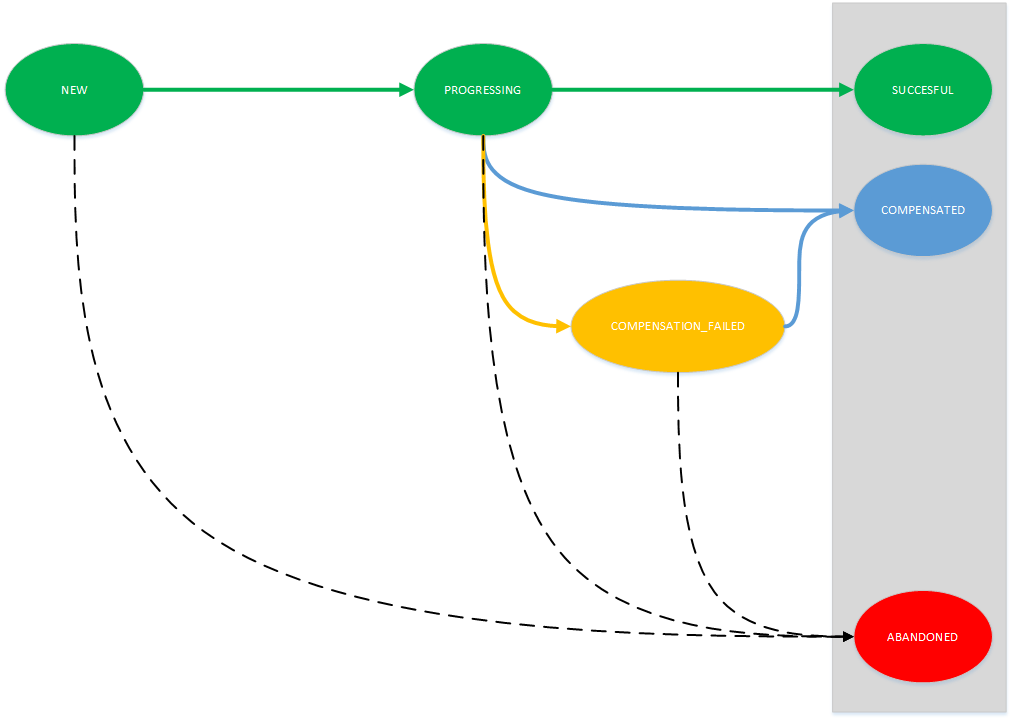
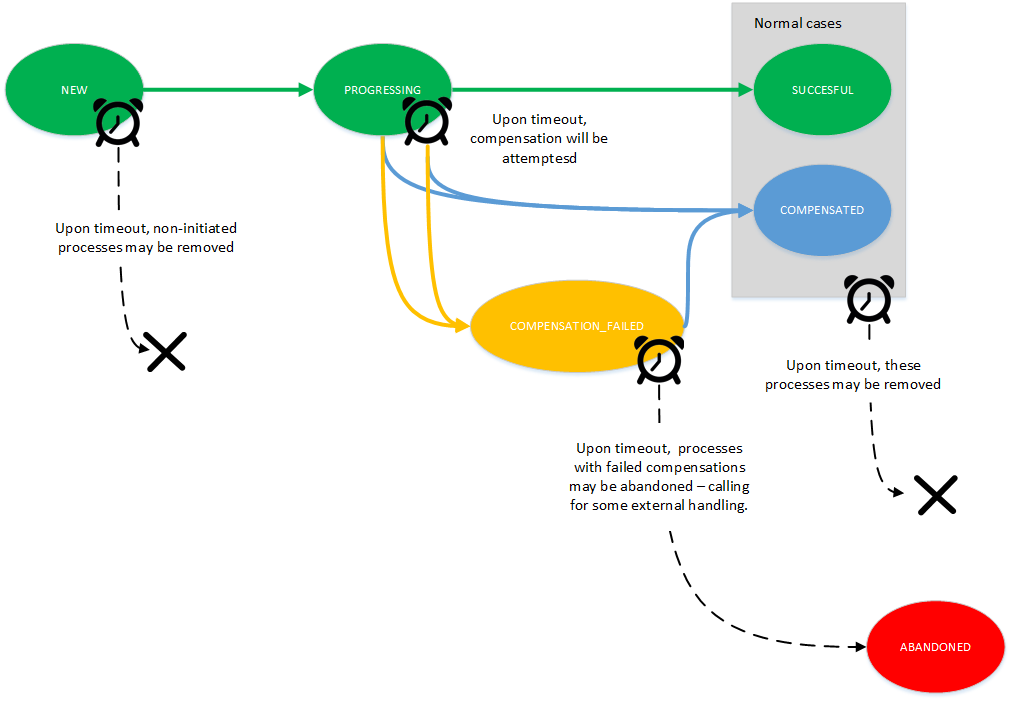
updated state handling (and doc)

diff --git a/src/main/java/eu/ensure/muprocessmanager/MuProcessManager.java b/src/main/java/eu/ensure/muprocessmanager/MuProcessManager.java
@@ -147,6 +147,17 @@ public class MuProcessManager {
                 //
                 switch (_status) {
                     case NEW:
+                        if (hasTimedout) {
+                            // Automatically remove after timeout
+                            if (log.isDebugEnabled()) {
+                                String info = "Removing stuck process: correlationId=\"" + correlationId + "\", processId=\"" + processId + "\"";
+                                log.debug(info);
+                            }
+                            compensationLog.remove(correlationId, processId);
+                            removeCount[status]++;
+                        }
+                        break;
+
                     case PROGRESSING:
                         if (hasTimedout) {
                             if (log.isDebugEnabled()) {
@@ -154,6 +165,7 @@ public class MuProcessManager {
                                 log.debug(info);
                             }
 
+                            // Attempt compensation
                             recoverWorkQueue.execute(() -> {
                                 // Since we don't have a micro process waiting, we will not propagate any
                                 // exceptions
@@ -188,6 +200,7 @@ public class MuProcessManager {
 
                     case COMPENSATION_FAILED:
                         if (hasTimedout) {
+                            // Automatically abandon after timeout
                             if (log.isTraceEnabled()) {
                                 String info = "Abandoning process: correlationId=\"" + correlationId + "\", processId=\"" + processId + "\"";
                                 log.trace(info);
@@ -202,6 +215,7 @@ public class MuProcessManager {
                                 log.trace(info);
                             }
 
+                            // Re-attempt compensation
                             recoverWorkQueue.execute(() -> {
                                 // Since we don't have a micro process waiting, we will not propagate any
                                 // exceptions
